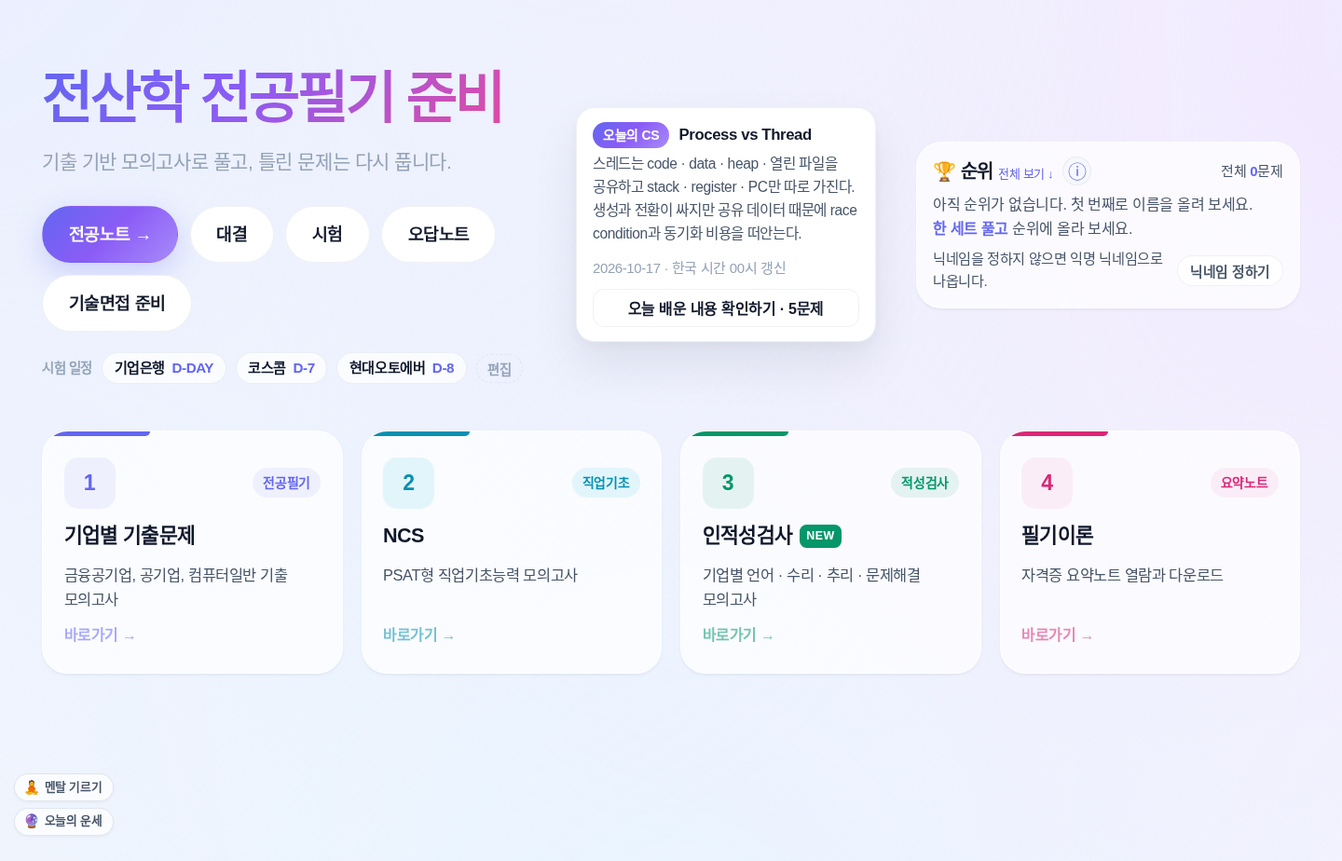
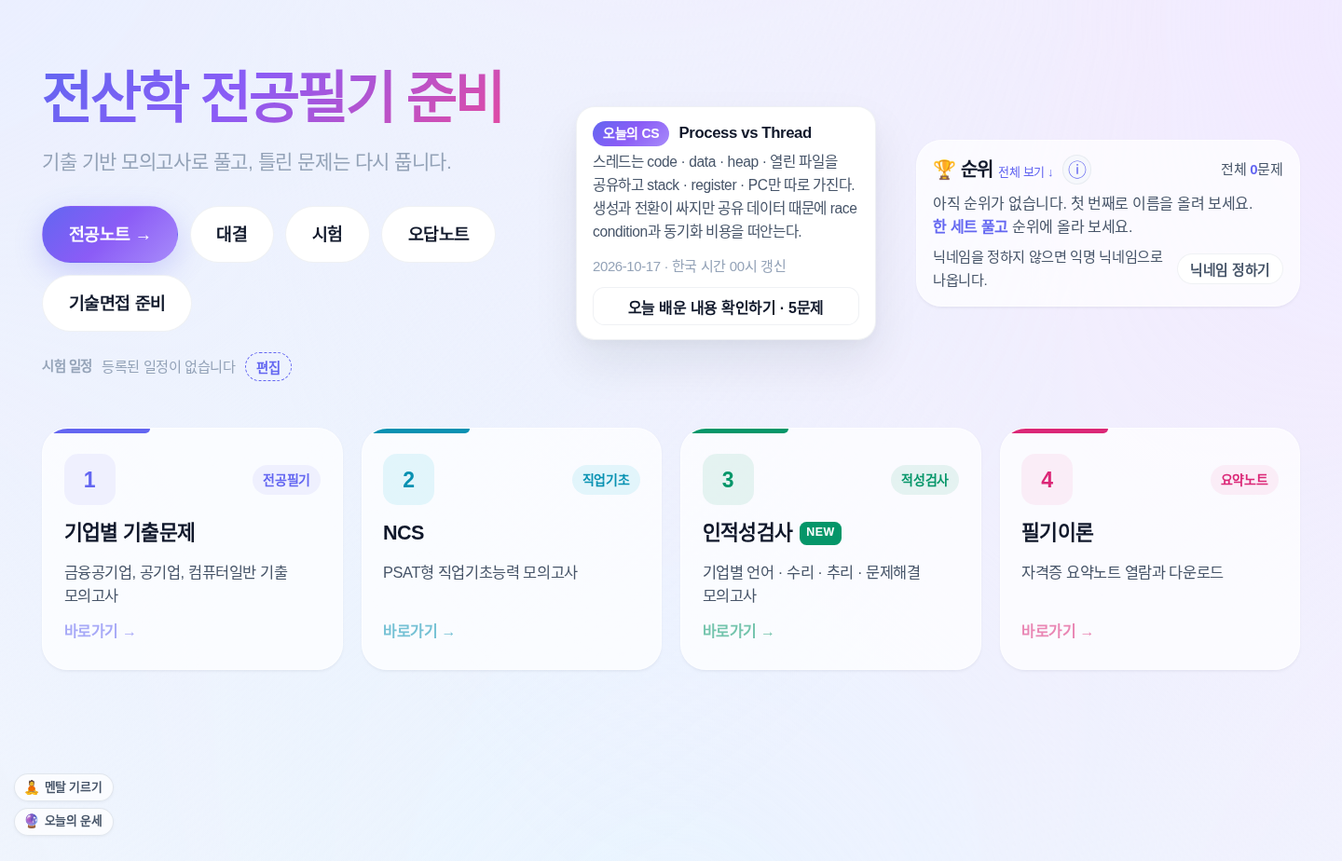
Align technical interview with notes UI and reset exam schedules

diff --git a/frontend/src/pages/TechnicalInterviewPage.jsx b/frontend/src/pages/TechnicalInterviewPage.jsx
@@ -1,21 +1,26 @@
-import { useState, useSyncExternalStore } from 'react';
-import { Link } from 'react-router-dom';
+import { useEffect, useState, useSyncExternalStore } from 'react';
+import { Link, useLocation, useNavigate } from 'react-router-dom';
 import { INTERVIEW_TRACKS, TECHNICAL_INTERVIEW, INTERVIEW_REFERENCES } from '../data/technicalInterview';
 import { account, onAccountChange } from '../sync';
+import './CsNotesPage.css';
 import './TechnicalInterviewPage.css';
 
 const identity = () => account()?.token || '';
 const knownIds = new Set(TECHNICAL_INTERVIEW.map(q => q.id));
+const randomQuestion = questions => questions[Math.floor(Math.random() * questions.length)];
 export default function TechnicalInterviewPage() {
   const token = useSyncExternalStore(onAccountChange, identity, () => '');
   return <InterviewWorkspace key={token} />;
 }
 function InterviewWorkspace() {
-  const [track, setTrack] = useState('aws');
+  const { hash } = useLocation();
+  const navigate = useNavigate();
+  const selected = TECHNICAL_INTERVIEW.find(q => q.id === hash.slice(1));
+  const [track, setTrack] = useState(selected?.source || 'aws');
   const [category, setCategory] = useState('');
   const [query, setQuery] = useState('');
   const [hideDone, setHideDone] = useState(false);
-  const [selectedId, setSelectedId] = useState('');
+  const [opened, setOpened] = useState({});
   const storageKey = `technical-interview:v1:${account() ? `user:${account().id || account().nickname}` : 'guest'}`;
   const [completed, setCompleted] = useState(() => {
     try {
@@ -29,8 +34,6 @@ function InterviewWorkspace() {
   const normalized = query.trim().toLocaleLowerCase();
   const visible = trackQuestions.filter(q => (!category || q.category === category) && (!hideDone || !completed.includes(q.id))
     && `${q.question} ${q.category} ${q.answer}`.toLocaleLowerCase().includes(normalized));
-  const selected = visible.find(q => q.id === selectedId) || visible[0];
-  const index = visible.findIndex(q => q.id === selected?.id);
   const source = INTERVIEW_TRACKS.find(item => item.id === track);
   const toggleDone = id => {
     const next = completed.includes(id) ? completed.filter(value => value !== id) : [...completed, id];
@@ -38,65 +41,86 @@ function InterviewWorkspace() {
     try { localStorage.setItem(storageKey, JSON.stringify(next)); setStorageError(false); }
     catch { setStorageError(true); }
   };
-  const chooseTrack = id => { setTrack(id); setCategory(''); setQuery(''); setSelectedId(''); };
-  return <div className="technical-interview fade-in">
-    <header className="tech-heading">
-      <Link className="back-link" to="/">← 홈으로</Link>
-      <span className="tech-kicker">INTERVIEW WORKSPACE</span>
-      <h1>기술면접 준비</h1>
-      <p>질문을 먼저 읽고, 내 말로 답한 뒤 예시 답변과 비교해 보세요.</p>
-      <div className="tech-heading-links"><Link to="/interview">카메라로 공통질문 연습 →</Link><Link to="/notes">CS 개념 더 공부하기 →</Link></div>
+  const choose = id => {
+    navigate(`/technical-interview#${id}`, { replace: true });
+    document.getElementById(id)?.scrollIntoView({ block: 'start' });
+  };
+  useEffect(() => {
+    if (hash) document.getElementById(hash.slice(1))?.scrollIntoView({ block: 'start' });
+  }, [hash]);
+  const chooseTrack = id => {
+    setTrack(id); setCategory(''); setQuery('');
+    navigate('/technical-interview', { replace: true });
+  };
+  const chooseRandom = () => {
+    if (!visible.length) return;
+    const pool = visible.length > 1 ? visible.filter(q => q.id !== selected?.id) : visible;
+    choose(randomQuestion(pool).id);
+  };
+  return <div className="cs-notes technical-interview-notes">
+    <header className="notes-heading">
+      <div><h1>기술면접 준비</h1><p>{INTERVIEW_TRACKS.length}개 자료 / 총 {TECHNICAL_INTERVIEW.length}개 질문</p></div>
+      <div className="notes-progress"><strong>학습 완료 {completed.length} / {TECHNICAL_INTERVIEW.length}</strong><progress value={completed.length} max={TECHNICAL_INTERVIEW.length} aria-label="기술면접 학습 완료" /></div>
+      <Link to="/account">내 계정 →</Link>
     </header>
-    <div className="tech-tracks" aria-label="면접 자료 선택">
-      {INTERVIEW_TRACKS.map(item => <button type="button" key={item.id} aria-pressed={track === item.id} onClick={() => chooseTrack(item.id)}>
-        <small>{item.subtitle}</small><strong>{item.name}</strong>
-        <span>{TECHNICAL_INTERVIEW.filter(q => q.source === item.id).length}개 질문 <b>연습 {TECHNICAL_INTERVIEW.filter(q => q.source === item.id && completed.includes(q.id)).length}개 완료</b></span>
-      </button>)}
+    <div className="notes-save-status" role="status">{storageError ? '브라우저 저장이 차단되어 완료 표시를 유지하지 못합니다.' : '학습 완료 표시는 현재 브라우저에 저장됩니다. 기술면접 연습은 티어 풀이 수에 포함되지 않습니다.'}</div>
+    <div className="tech-note-toolbar">
+      <div className="tech-note-tracks" aria-label="면접 자료 선택">
+        {INTERVIEW_TRACKS.map(item => <button type="button" className="exam-btn sm" key={item.id} aria-pressed={track === item.id} onClick={() => chooseTrack(item.id)}>{item.name}<span>{TECHNICAL_INTERVIEW.filter(q => q.source === item.id).length}개 질문</span></button>)}
+      </div>
+      <div className="tech-note-links"><Link to="/notes">전공노트 →</Link><Link to="/interview">카메라로 공통질문 연습 →</Link></div>
     </div>
-    <p className="tech-source">질문 출처: {source.file} / 답변과 꼬리질문은 학습을 위해 새로 작성했습니다. 회사의 공식 정답이나 합격 답변을 뜻하지 않습니다.</p>
-    <div className="tech-layout">
-      <aside className="tech-sidebar">
-        <div className="tech-filters">
-          <label>질문 검색<input type="search" aria-label="면접 질문 검색" value={query} onChange={event => setQuery(event.target.value)} placeholder="SQS, 장애 대응, 트랜잭션…" /></label>
-          <label>주제<select aria-label="면접 주제" value={category} onChange={event => setCategory(event.target.value)}><option value="">전체 주제</option>{categories.map(title => <option key={title} value={title}>{title}</option>)}</select></label>
-          <label className="tech-hide"><input type="checkbox" checked={hideDone} onChange={event => setHideDone(event.target.checked)} /> 연습 완료한 질문 숨기기</label>
+    <div className="notes-layout">
+      <aside className="notes-index">
+        <div className="notes-filters">
+          <input type="search" aria-label="면접 질문 검색" value={query} onChange={event => setQuery(event.target.value)} placeholder="질문 검색…" />
+          <select aria-label="면접 주제" value={category} onChange={event => setCategory(event.target.value)}><option value="">전체 주제</option>{categories.map(title => <option key={title} value={title}>{title}</option>)}</select>
+          <label><input type="checkbox" aria-label="완료한 질문 숨기기" checked={hideDone} onChange={event => setHideDone(event.target.checked)} /> 완료한 질문 숨기기</label>
         </div>
-        <div className="tech-list-head"><span>{visible.length}개 질문</span><button type="button" disabled={visible.length < 2} onClick={() => {
-          const pool = visible.filter(q => q.id !== selected?.id);
-          setSelectedId(pool[Math.floor(Math.random() * pool.length)].id);
-        }}>랜덤 질문</button></div>
-        <nav className="tech-question-list" aria-label="기술면접 질문 목록">
-          {visible.map(q => <button type="button" key={q.id} aria-current={q.id === selected?.id ? 'true' : undefined} onClick={() => setSelectedId(q.id)}>
-            <span>{q.category}{completed.includes(q.id) && <b>완료</b>}</span>{q.question}
-          </button>)}
-          {!visible.length && <p>조건에 맞는 질문이 없습니다. 검색어나 주제, 완료 숨기기를 변경해 주세요.</p>}
+        <div className="tech-note-list-head"><span>{visible.length}개 질문</span><button type="button" disabled={!visible.length} onClick={chooseRandom}>랜덤 질문</button></div>
+        <nav className="notes-questions" aria-label="기술면접 질문 목록">
+          {categories.map(title => {
+            const list = visible.filter(q => q.category === title);
+            if (!list.length) return null;
+            const all = trackQuestions.filter(q => q.category === title);
+            return <section key={title}><h2>{title}<small>{all.filter(q => completed.includes(q.id)).length}/{all.length}</small></h2><ul>{list.map(q => <li key={q.id} className={`${completed.includes(q.id) ? 'is-done' : ''} ${selected?.id === q.id ? 'is-selected' : ''}`}>
+              <input type="checkbox" aria-label={`${q.question} 학습 완료`} checked={completed.includes(q.id)} onChange={() => toggleDone(q.id)} />
+              <button type="button" aria-current={selected?.id === q.id ? 'true' : undefined} onClick={() => choose(q.id)}>{q.question}</button>
+            </li>)}</ul></section>;
+          })}
+          {!visible.length && <p className="notes-empty">조건에 맞는 질문이 없습니다.</p>}
         </nav>
       </aside>
-      <div className="tech-content">
-        {selected ? <InterviewQuestion key={selected.id} question={selected} done={completed.includes(selected.id)} toggleDone={toggleDone} /> : <section className="tech-empty"><h2>검색 조건을 바꿔 보세요.</h2><p>다른 질문으로 답변 연습을 이어갈 수 있습니다.</p></section>}
-        {selected && <div className="tech-paging"><button type="button" className="exam-btn" disabled={index <= 0} onClick={() => setSelectedId(visible[index - 1].id)}>← 이전 질문</button><span>{index + 1} / {visible.length}</span><button type="button" className="exam-btn" disabled={index === visible.length - 1} onClick={() => setSelectedId(visible[index + 1].id)}>다음 질문 →</button></div>}
-        <p className="tech-save-note" role="status">{storageError ? '브라우저 저장이 차단되어 완료 표시를 유지하지 못합니다.' : '연습 완료 표시는 현재 브라우저에 저장됩니다. 기술면접은 자가 점검용이며 티어 풀이 수를 늘리지 않습니다.'}</p>
-        <details className="tech-references"><summary>개념 확인용 공식 문서</summary><ul>{INTERVIEW_REFERENCES.map(([label, url]) => <li key={url}><a href={url} target="_blank" rel="noreferrer">{label} ↗</a></li>)}</ul></details>
+      <div className="notes-content">
+        <p className="notes-list-intro">질문 출처: {source.file}<br />내 말로 먼저 답한 뒤 ‘답 보기’로 예시를 확인하고 학습 완료를 체크하세요. 답변과 꼬리질문은 학습을 위해 새로 작성했으며 회사의 공식 정답을 뜻하지 않습니다.</p>
+        {selected && hideDone && completed.includes(selected.id) && <p className="notes-empty">이 링크의 질문은 학습 완료되어 숨겨져 있습니다. ‘완료한 질문 숨기기’를 해제하면 다시 볼 수 있습니다.</p>}
+        {categories.map(title => {
+          const list = visible.filter(q => q.category === title);
+          if (!list.length) return null;
+          const headingId = `interview-subject-${track}-${list[0].section}`;
+          return <section className="notes-subject" key={title} aria-labelledby={headingId}>
+            <h2 id={headingId} className="notes-subject-title">{title}<small>{list.length}개 질문</small></h2>
+            {list.map(q => <InterviewNote key={q.id} question={q} done={completed.includes(q.id)} toggleDone={toggleDone} open={!!opened[q.id]} toggleOpen={() => setOpened(prev => ({ ...prev, [q.id]: !prev[q.id] }))} />)}
+          </section>;
+        })}
+        {!visible.length && <div className="notes-empty"><h2>표시할 질문이 없습니다.</h2><p>완료한 질문 숨기기를 해제하거나 검색과 주제 조건을 바꿔 보세요.</p></div>}
+        <details className="notes-sources"><summary>개념 확인용 공식 문서</summary><ul>{INTERVIEW_REFERENCES.map(([label, url]) => <li key={url}><a href={url} target="_blank" rel="noreferrer">{label} ↗</a></li>)}</ul></details>
       </div>
     </div>
   </div>;
 }
-function InterviewQuestion({ question: q, done, toggleDone }) {
-  const [open, setOpen] = useState(false);
-  const [followOpen, setFollowOpen] = useState(false);
+function InterviewNote({ question: q, done, toggleDone, open, toggleOpen }) {
   const kind = q.kind === 'experience' ? '경험 답변 구성 예시' : q.kind === 'reverse' ? '역질문 준비 가이드' : '기술 답변 예시';
-  return <article className="tech-question" aria-label="선택한 면접 질문">
-    <div className="tech-question-meta"><span>{q.category}</span><span>{q.source === 'aws' ? `자료 ${q.page}쪽` : '오토에버 1차 자료'}</span></div>
-    <h2>{q.question}</h2>
-    <p className="tech-speaking-tip">{q.kind === 'experience' ? '상황 → 내가 한 행동 → 실제 결과 → 직무와의 연결 순서로 말해 보세요.' : q.kind === 'reverse' ? '이 질문은 지원자가 면접관에게 묻는 역질문입니다.' : '정의 → 동작 원리 → 사용 사례와 트레이드오프 순서로 말해 보세요.'}</p>
-    <button type="button" className="exam-btn primary" aria-expanded={open} aria-controls={`tech-answer-${q.id}`} onClick={() => setOpen(value => !value)}>{open ? '예시 답변 접기' : '예시 답변 보기'}</button>
-    {open && <section id={`tech-answer-${q.id}`} className="tech-answer" aria-label={kind}><h3>{kind}</h3><p>{q.answer}</p>
-      {q.kind === 'experience' && <p className="tech-experience-note">대괄호는 본인의 실제 경험으로 바꿔 주세요. 자료 속 지원자의 직함·프로젝트·성과를 본인 경험으로 사용하지 마세요.</p>}
-    </section>}
-    <div className="tech-followup">
-      <button type="button" aria-expanded={followOpen} onClick={() => setFollowOpen(value => !value)}>{followOpen ? '연습용 꼬리질문 접기 ↑' : '이 주제의 꼬리질문 연습 ↓'}</button>
-      {followOpen && q.followUps.map(([question, answer]) => <section key={question}><h3>{question}</h3><details><summary>답변 포인트 보기</summary><p>{answer}</p></details></section>)}
+  return <article id={q.id} className={`notes-detail-card ${done ? 'is-done' : ''}`} aria-label={q.question}>
+    <div className="notes-detail-top"><span>{q.source === 'aws' ? `AWS 자료 ${q.page}쪽` : '오토에버 1차 자료'}</span><label><input type="checkbox" aria-label={`${q.question} 본문 학습 완료`} checked={done} onChange={() => toggleDone(q.id)} /> 학습 완료</label></div>
+    <h3 className="notes-question">{q.question}</h3>
+    <button type="button" className="exam-btn sm notes-reveal" aria-expanded={open} aria-controls={`tech-answer-${q.id}`} onClick={toggleOpen}>{open ? '답 숨기기' : '답 보기'}</button>
+    <div id={`tech-answer-${q.id}`} hidden={!open}>
+      {open && <section className="notes-answer" aria-label={kind}><h4>{kind}</h4><p>{q.answer}</p>
+        {q.kind === 'experience' && <div className="notes-tip">대괄호는 본인의 실제 경험으로 바꿔 주세요. 자료 속 지원자의 직함과 프로젝트, 성과를 본인 경험으로 사용하지 마세요.</div>}
+        {q.kind === 'reverse' && <div className="notes-tip">지원자가 면접관에게 묻는 역질문입니다. 실제로 궁금한 내용을 골라 준비하세요.</div>}
+        <details className="tech-note-followups"><summary>이 주제의 꼬리질문 연습</summary>{q.followUps.map(([question, answer]) => <section key={question}><h4>{question}</h4><details><summary>답변 포인트 보기</summary><p>{answer}</p></details></section>)}</details>
+      </section>}
     </div>
-    <label className="tech-complete"><input type="checkbox" checked={done} onChange={() => toggleDone(q.id)} /> 내 말로 답변 연습 완료</label>
   </article>;
 }

diff --git a/frontend/src/pages/TechnicalInterviewPage.css b/frontend/src/pages/TechnicalInterviewPage.css
@@ -1,57 +1,17 @@
-.technical-interview { margin: 32px 0 64px; }
-.tech-kicker { display: block; margin-top: 24px; color: var(--accent-blue); font-weight: 800; font-size: .72rem; letter-spacing: .14em; }
-.tech-heading h1 { margin: 10px 0; font-size: clamp(1.9rem, 4vw, 2.7rem); letter-spacing: -.04em; }
-.tech-heading p { color: var(--text-secondary); line-height: 1.7; }
-.tech-heading-links { display: flex; gap: 20px; flex-wrap: wrap; margin-top: 18px; font-size: .85rem; }
-.tech-tracks { display: grid; grid-template-columns: repeat(2,minmax(0,1fr)); gap: 14px; margin-top: 28px; }
-.tech-tracks button { padding: 20px; border: 1px solid var(--border-color); border-radius: 16px; background: var(--bg-primary); color: var(--text-primary); text-align: left; font: inherit; cursor: pointer; }
-.tech-tracks button[aria-pressed=true] { border-color: var(--accent-blue); background: var(--accent-blue-light); box-shadow: 0 0 0 1px var(--accent-blue); }
-.tech-tracks small { color: var(--text-secondary); font-size: .75rem; }
-.tech-tracks strong { display: block; margin: 8px 0 12px; font-size: 1.15rem; }
-.tech-tracks span { display: flex; flex-wrap: wrap; gap: 10px; justify-content: space-between; font-size: .8rem; }
-.tech-tracks b { font-weight: 500; color: var(--text-secondary); }
-.tech-source, .tech-save-note { color: var(--text-secondary); font-size: .76rem; line-height: 1.75; overflow-wrap: anywhere; }
-.tech-source { margin: 16px 0 24px; }
-.tech-layout { display: grid; grid-template-columns: minmax(250px, .85fr) minmax(0, 1.7fr); gap: 24px; align-items: start; }
-.tech-sidebar { border: 1px solid var(--border-color); border-radius: 16px; overflow: hidden; background: var(--bg-primary); }
-.tech-filters { display: grid; gap: 12px; padding: 18px; background: var(--bg-secondary); }
-.tech-filters label { display: grid; gap: 6px; font-size: .78rem; font-weight: 600; }
-.tech-filters input[type=search], .tech-filters select { width: 100%; min-width: 0; min-height: 42px; padding: 10px; border-radius: 8px; border: 1px solid var(--border-color); background: var(--bg-primary); color: var(--text-primary); font: inherit; }
-.tech-filters .tech-hide { display: flex; align-items: center; font-weight: 400; }
-.tech-list-head { display: flex; justify-content: space-between; align-items: center; padding: 12px 18px; border-bottom: 1px solid var(--border-color); font-size: .75rem; }
-.tech-list-head button, .tech-followup > button { border: 0; background: transparent; color: var(--accent-blue); font: inherit; cursor: pointer; }
-.tech-question-list { display: grid; max-height: 62dvh; overflow-y: auto; }
-.tech-question-list > button { padding: 15px 18px; border: 0; border-bottom: 1px solid var(--border-color); background: var(--bg-primary); color: var(--text-primary); text-align: left; font: inherit; font-size: .83rem; line-height: 1.65; cursor: pointer; }
-.tech-question-list > button[aria-current=true] { background: var(--accent-blue-light); box-shadow: inset 3px 0 var(--accent-blue); }
-.tech-question-list > button > span { display: flex; justify-content: space-between; gap: 8px; margin-bottom: 5px; font-size: .66rem; color: var(--text-secondary); }
-.tech-question-list b { color: var(--accent-green); font-weight: 600; }
-.tech-question-list > p { padding: 18px; font-size: .85rem; line-height: 1.7; }
-.tech-content { min-width: 0; }
-.tech-question, .tech-empty { padding: clamp(20px,3vw,34px); background: var(--bg-primary); border: 1px solid var(--border-color); border-radius: 18px; }
-.tech-question-meta { display: flex; flex-wrap: wrap; justify-content: space-between; gap: 8px; color: var(--accent-blue); font-size: .75rem; font-weight: 600; }
-.tech-question h2 { font-size: clamp(1.2rem,2vw,1.55rem); line-height: 1.6; margin: 22px 0 16px; letter-spacing: -.025em; }
-.tech-speaking-tip { padding: 14px 16px; border-radius: 10px; background: var(--bg-secondary); color: var(--text-secondary); font-size: .85rem; line-height: 1.75; margin-bottom: 24px; }
-.tech-answer { margin-top: 22px; padding: 20px; border-radius: 12px; background: var(--accent-blue-light); }
-.tech-answer h3 { font-size: .88rem; color: var(--accent-blue); margin: 0 0 12px; }
-.tech-answer p, .tech-followup p { font-size: .95rem; line-height: 1.95; word-break: keep-all; overflow-wrap: anywhere; margin: 0; }
-.tech-answer .tech-experience-note { margin-top: 16px; padding-top: 12px; border-top: 1px solid var(--border-color); font-size: .78rem; color: var(--text-secondary); line-height: 1.8; }
-.tech-followup { margin-top: 24px; border-top: 1px solid var(--border-color); padding-top: 20px; }
-.tech-followup > button { font-size: .85rem; padding: 0; }
-.tech-followup h3 { font-size: .95rem; margin: 20px 0 12px; line-height: 1.7; }
-.tech-followup details { font-size: .82rem; color: var(--text-secondary); }
-.tech-followup summary, .tech-references summary { cursor: pointer; }
-.tech-followup p { font-size: .88rem; margin-top: 12px; }
-.tech-complete { display: flex; align-items: center; gap: 8px; margin-top: 26px; padding-top: 20px; border-top: 1px solid var(--border-color); font-size: .85rem; }
-.tech-complete input { accent-color: var(--accent-blue); width: 17px; height: 17px; }
-.tech-paging { display: flex; align-items: center; justify-content: space-between; gap: 10px; margin-top: 18px; }
-.tech-paging > span { font-size: .78rem; color: var(--text-secondary); white-space: nowrap; }
-.tech-references { padding: 14px 0; font-size: .8rem; color: var(--text-secondary); line-height: 1.8; }
-.technical-interview button:focus-visible, .technical-interview input:focus-visible, .technical-interview select:focus-visible { outline: 3px solid var(--accent-blue); outline-offset: 3px; }
-@media(max-width:760px) {
-  .tech-layout { grid-template-columns: 1fr; gap: 18px; }
-  .tech-question-list { max-height: 240px; }
-  .tech-tracks button { padding: 15px; }
-  .tech-tracks strong { font-size: 1rem; }
-  .tech-tracks span { font-size: .72rem; }
-  .tech-paging .exam-btn { padding: 9px 10px; font-size: .75rem; }
+.tech-note-toolbar { display: flex; flex-wrap: wrap; align-items: center; gap: 12px 20px; margin: 8px 0 18px; }
+.tech-note-tracks { display: flex; flex-wrap: wrap; gap: 8px; }
+.tech-note-tracks button[aria-pressed=true] { border-color: var(--accent-blue); background: var(--accent-blue-light); color: var(--accent-blue); }
+.tech-note-tracks span { margin-left: 5px; font-size: .72rem; font-weight: 400; }
+.tech-note-links { display: flex; flex-wrap: wrap; gap: 16px; margin-left: auto; font-size: .78rem; color: var(--accent-blue); }
+.tech-note-list-head { display: flex; align-items: center; justify-content: space-between; padding: 10px 14px; font-size: .75rem; color: var(--text-secondary); border-bottom: 1px solid var(--border-color); }
+.tech-note-list-head button { border: 0; padding: 0; background: transparent; color: var(--accent-blue); font: inherit; cursor: pointer; }
+.tech-note-list-head button:disabled { opacity: .5; cursor: default; }
+.tech-note-followups { margin-top: 22px; padding-top: 16px; border-top: 1px solid var(--border-color); font-size: .8rem; line-height: 1.8; }
+.tech-note-followups summary { color: var(--accent-blue); cursor: pointer; }
+.tech-note-followups section { margin-top: 16px; }
+.tech-note-followups p { margin-top: 10px; }
+.technical-interview-notes select:focus-visible { outline: 2px solid var(--accent-blue); outline-offset: 2px; }
+@media (max-width: 640px) {
+  .tech-note-links { margin-left: 0; }
+  .technical-interview-notes .notes-index { width: 100%; min-height: 260px; }
 }

diff --git a/frontend/src/schedule.js b/frontend/src/schedule.js
@@ -1,20 +1,15 @@
 // 필기 시험 일정. 첫 화면에서 직접 고칠 수 있고 이 브라우저에 저장한다.
 // to는 그 시험의 문제은행 주소(없으면 연결 안 함)
-const KEY = 'study:exams';
-
-// 아직 한 번도 고치지 않은 사람에게 보여 줄 기본 일정
-const DEFAULTS = [
-  { name: '기업은행', date: '2026-10-17', to: '/exam/ibk' },
-  { name: '코스콤', date: '2026-10-24', to: '/exam/koscom' },
-  { name: '현대오토에버', date: '2026-10-25' },
-];
+// 기존에 등록된 모든 일정을 초기화한다. 이후 새로 추가한 일정은 유지한다.
+const KEY = 'study:exams:v2';
 
 export function loadExams() {
+  try { localStorage.removeItem('study:exams'); } catch { /* storage unavailable */ }
   try {
     const saved = JSON.parse(localStorage.getItem(KEY));
     if (Array.isArray(saved)) return saved.filter(e => e && typeof e.name === 'string' && typeof e.date === 'string');
-  } catch { /* 저장된 값이 깨졌으면 기본 일정으로 */ }
-  return DEFAULTS;
+  } catch { /* 저장된 값이 깨졌으면 빈 일정으로 */ }
+  return [];
 }
 
 export function saveExams(exams) {

diff --git a/docs/technical-interview.md b/docs/technical-interview.md
@@ -6,6 +6,6 @@
 
 기술 질문은 핵심 원리·사용 맥락·트레이드오프를 설명하고, 경험 질문은 지원자의 실제 경험으로 채울 구성 예시로 표시한다. 원자료 속 CTO·전공 전환·프로젝트 경험을 다른 사용자의 이력으로 단정하지 않는다. AWS 자료 마지막 2개는 지원자가 묻는 역질문으로 구분한다. 답변은 회사 공식 정답이나 합격 보장이 아니다.
 
-회사·주제 선택, 질문과 답변 검색, 랜덤 질문, 답변 접기·펼치기, 이전·다음, 주제별 꼬리질문, 완료 표시와 완료 숨기기를 제공한다. 완료 상태는 브라우저의 주체별 키에만 저장하며 티어 문제 수에는 포함하지 않는다. 운영 DB의 개인정보 배지와는 별개다.
+전공노트와 같은 UI를 사용한다. 왼쪽에 주제별 질문 목록과 완료 체크를, 오른쪽에 해당 질문 카드를 순서대로 표시한다. 질문을 선택하면 본문으로 이동하고 URL에 질문 ID를 남긴다. 각 카드의 ‘답 보기’로 답변을 독립적으로 펼칠 수 있다. 회사와 주제 선택, 질문과 답변 검색, 랜덤 질문, 주제별 꼬리질문, 완료 표시와 완료 숨기기를 제공한다. 완료 상태는 기존 브라우저의 주체별 키를 유지하며 티어 문제 수에는 포함하지 않는다. 운영 DB의 개인정보 배지와는 별개다.
 
 검증: frontend에서 `npm run check:technical-interview`, `npm run build`. 원문 대조 테스트에는 Poppler의 `pdftotext`가 필요하다. 152개 질문 모두를 원문 텍스트와 대조하고 답변 누락, 필터, 답변 숨김, 꼬리질문, 완료 저장과 계정 전환을 확인한다.

diff --git a/README.md b/README.md
@@ -47,7 +47,7 @@
 | 현대오토에버 1차 | 38 | 직무 이해, 프로젝트, 배포, 장애 대응과 경험 답변 구성 |
 | AWS Solutions Architect 폰 스크리닝 | 114 | 소프트웨어 설계, DB, 네트워크, 스토리지, 컨테이너, 확장과 생성형 AI |
 
-질문을 먼저 읽고 직접 설명한 뒤 답변을 펼쳐 비교합니다. 검색, 주제 선택, 랜덤 질문, 꼬리질문 연습과 완료 표시를 지원합니다. 경험 질문은 실제 이력으로 채울 답변 틀로 제공하고, 기술 질문은 원리와 사용 맥락을 설명합니다. 답변은 새로 작성한 학습 예시이며 회사의 공식 정답을 의미하지 않습니다.
+전공노트와 같은 질문 목록과 답변 카드 UI에서 질문을 먼저 읽고 직접 설명한 뒤 답변을 펼쳐 비교합니다. 검색, 주제 선택, 랜덤 질문, 꼬리질문 연습과 완료 표시를 지원합니다. 경험 질문은 실제 이력으로 채울 답변 틀로 제공하고, 기술 질문은 원리와 사용 맥락을 설명합니다. 답변은 새로 작성한 학습 예시이며 회사의 공식 정답을 의미하지 않습니다.
 
 ![기술면접 질문과 예시 답변](docs/images/technical-interview.png)
 
